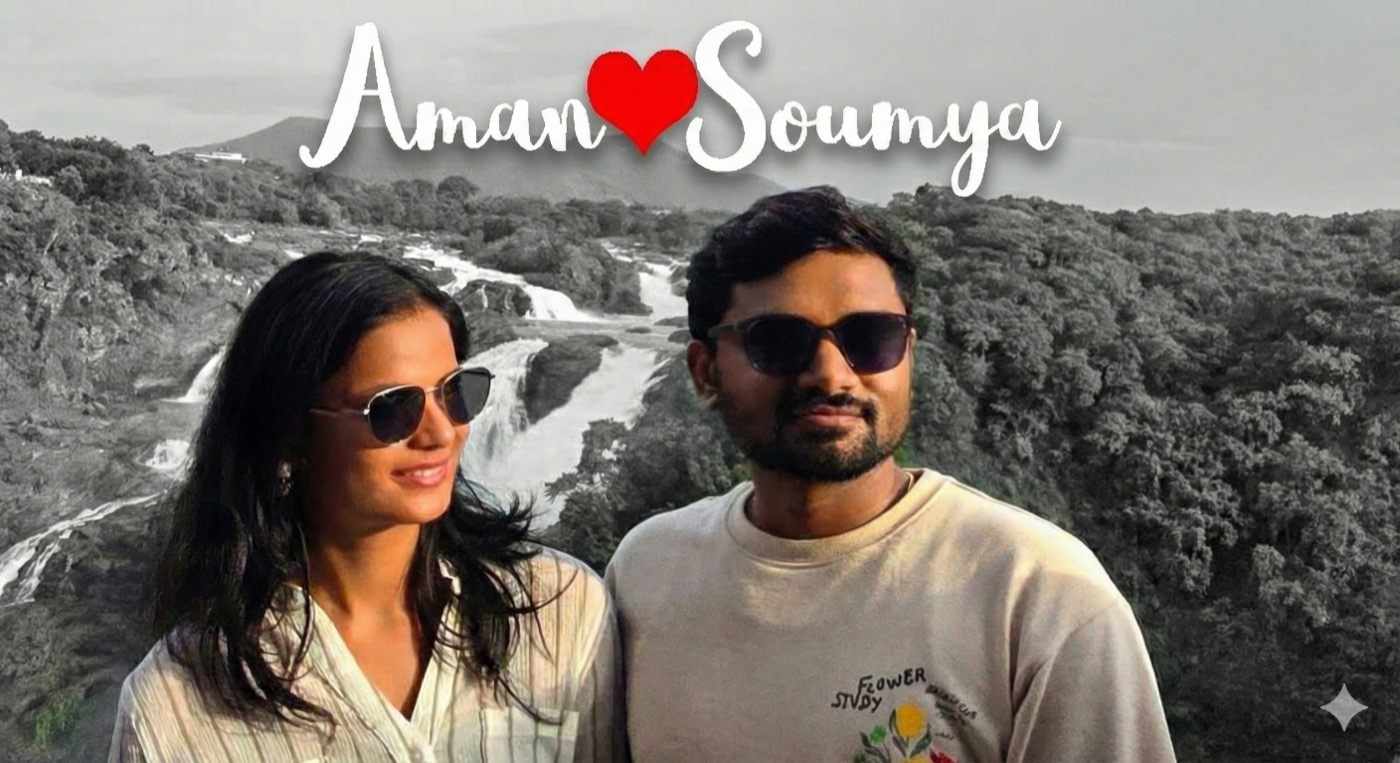
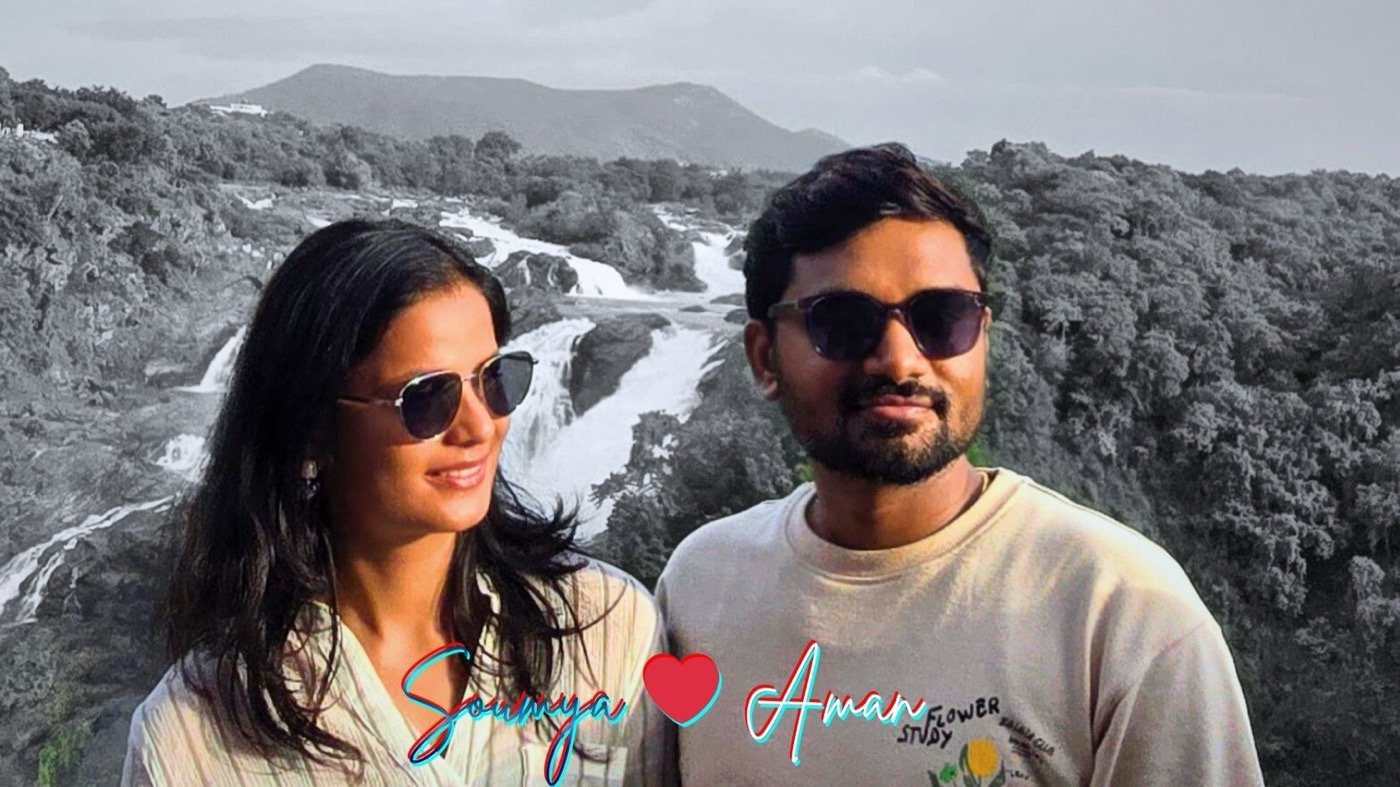
HERO IMAGE CHANGE

diff --git a/css/custom.css b/css/custom.css
@@ -121,3 +121,25 @@
         grid-row: auto / span 1 !important;
     }
 }
+
+.hero .hero-content img {
+    width: 92%;
+    max-width: 980px;
+    margin-bottom: 10%;
+}
+
+@media (max-width: 768px) {
+    .hero .hero-content img {
+        width: 95%;
+        max-width: 680px;
+        margin-bottom: 12%;
+    }
+
+    .hero-video {
+        display: none;
+    }
+
+    .hero {
+        background: url("../img/hero-mobile.jpg") center center / cover no-repeat;
+    }
+}
